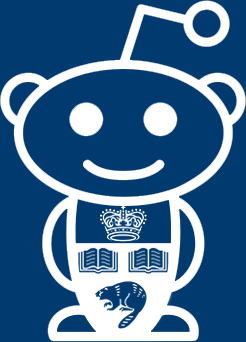
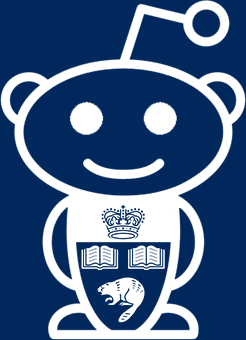
Use proper UofT colours

diff --git a/style.css b/style.css
@@ -61,7 +61,7 @@ a:hover {
 /* HEADER =========================================================== */
 
 #header {
-    background: #013a6f;
+    background: #00285d;
     border: none;
     color: #fff;
 }
@@ -71,7 +71,7 @@ a:hover {
 }
 
 #sr-header-area {
-    background: #012c54;
+    background: #001c43;
     border: none;
     font-size: 0.6rem;
     height: auto;
@@ -134,12 +134,18 @@ a:hover {
     padding: 0.5em 0;
 }
 
-#header-img.default-header {
+#header-img.default-header,
+#header-img-a {
     background: transparent url(%%uoftsnoo%%) no-repeat center center / contain;
+    display: inline-block;
     height: 4em;
     margin: 0.5em;
     vertical-align: middle;
     width: 4em;
+}
+
+#header-img {
+    display: none;
 }
 
 .pagename {
@@ -272,7 +278,7 @@ a:hover {
 
 .titlebox::before,
 .sidecontentbox .title {
-    background: #013a6f;
+    background: #00285d;
     display: block;
     padding: 0.5rem;
 }
